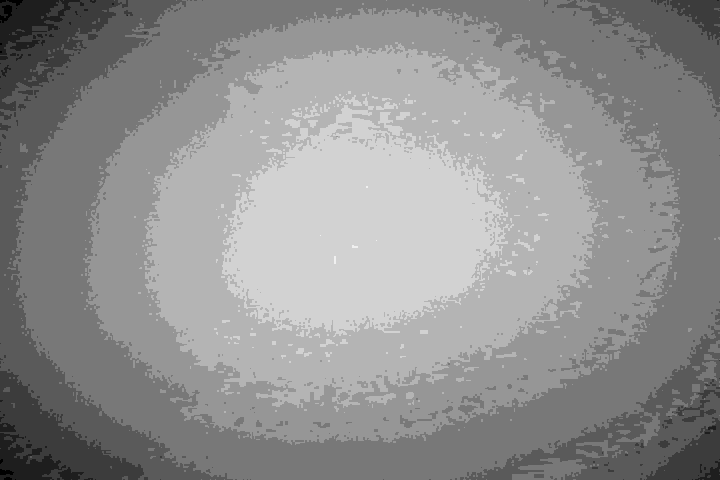
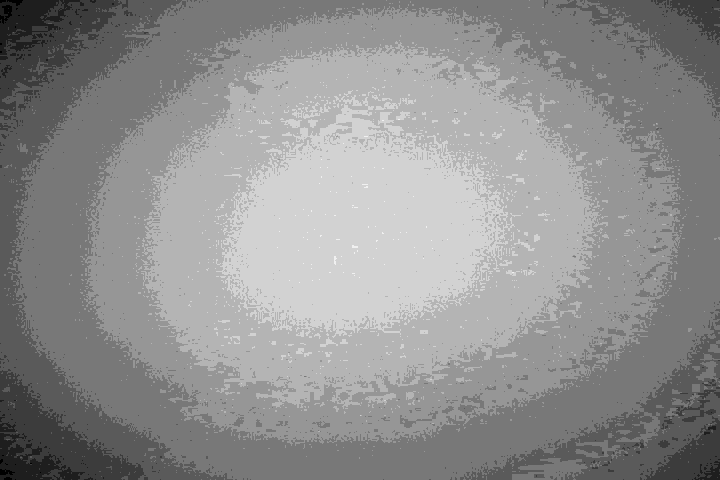
iroirosita

diff --git a/try.py b/try.py
@@ -41,43 +41,56 @@ def imgchange(img,perf):
 
 	img = (img - min) * 255 / (max - min)
 
+	# H,W = img.shape
+	# k=[[0,1,0],[1,0,1],[0,1,0]]
+	# for h in range(H-2):
+	# 	for w in range(W-2):
+	# 		img[h+1,w+1] = round( np.sum( k * img[ h : h+3 , w : w+3 ] ) / 4 ) 
+
 	img = img // perf
 
 	img = img *perf
 
 	return img
 
-def noisecut(img):
+def noisecut(img,perf):
 	#EasyNoiseCut
 	H,W = img.shape
 	k=[[0,1,0],[1,0,1],[0,1,0]]
 	for h in range(H-2):
 		for w in range(W-2):
-			
-			if img[h,w+1]*3 == np.sum([[0,1,0],[0,0,1],[0,1,0]]*img[h:h+3,w:w+3]):
-				img[h+1,w+1] = img[h,w+1]
-			elif img[h,w+1]*3 == np.sum([[0,1,0],[1,0,0],[0,1,0]]*img[h:h+3,w:w+3]):
-				img[h+1,w+1] = img[h,w+1]
-			elif img[h,w+1]*3 == np.sum([[0,1,0],[1,0,1],[0,0,0]]*img[h:h+3,w:w+3]):
-				img[h+1,w+1] = img[h,w+1]
-			elif img[h+1,w]*3 == np.sum([[0,0,0],[1,0,1],[0,1,0]]*img[h:h+3,w:w+3]):
-				img[h+1,w+1] = img[h+1,w]
+			img[h+1,w+1] = round( np.sum( k * img[ h : h+3 , w : w+3 ] ) / 4 * perf ) * perf
+
+			# if img[h,w+1]*3 == np.sum([[0,1,0],[0,0,1],[0,1,0]]*img[h:h+3,w:w+3]):
+			# 	img[h+1,w+1] = img[h,w+1]
+			# elif img[h,w+1]*3 == np.sum([[0,1,0],[1,0,0],[0,1,0]]*img[h:h+3,w:w+3]):
+			# 	img[h+1,w+1] = img[h,w+1]
+			# elif img[h,w+1]*3 == np.sum([[0,1,0],[1,0,1],[0,0,0]]*img[h:h+3,w:w+3]):
+			# 	img[h+1,w+1] = img[h,w+1]
+			# elif img[h+1,w]*3 == np.sum([[0,0,0],[1,0,1],[0,1,0]]*img[h:h+3,w:w+3]):
+			# 	img[h+1,w+1] = img[h+1,w]
 
 	return img
+	#enddef noisecut
 
 def SeekGravity(img,perf):
 	import math
 	H,W = img.shape
 	pernum = 255 // perf + 1
+	print(pernum)
 	SGline = np.empty((2,pernum))
 	# print(H,W)
 	img_make = np.zeros((H,W,3),dtype=int)
-	colorparetto = np.array([[244,0,0],[244,244,0],[244,0,244],[0,244,0],[0,244,244],[0,0,244],[122,0,0],[0,122,0],[0,0,122]])
+	colorparetto = np.array([[255,0,0],[0,255,0],[0,0,255],[255,255,0],[0,255,255],[255,0,255],[255,127,0],[0,255,127],[127,0,255]])
+	imag = np.zeros((H,W),dtype=int)
 	for i in range(pernum):
 
 		a = np.where(img==i*perf)
-
+		imag[a] = 255
+		cv2.imwrite('img/output/color-' + str(i) + '.png',imag)
+		imag = np.zeros((H,W),dtype=int)
 		len = a[0].shape
+		
 		SGh = np.sum( a[0] ) / len
 		SGw = np.sum( a[1] ) / len
 		img_make[a] = colorparetto[i]
@@ -85,7 +98,7 @@ def SeekGravity(img,perf):
 	# print(SGline)
 	SGline[0] -= H/2
 	SGline[1] -= W/2
-
+	print(SGline)
 	ans = np.empty(pernum)
 	for i in range(pernum):
 		ans[i] = math.sqrt(SGline[0,i] ** 2 + SGline[1,i] ** 2)
@@ -102,18 +115,19 @@ def main(num):
 
 	for i in [30]: #1,20,30,50
 		img_i = imgchange(img_v,i)
-		img_i = noisecut(img_i)
+		# img_i = noisecut(img_i,i)
 		cv2.imwrite('img/output/' + str(i) + '-' + num + '.png',img_i)
 		img_c,gplace = SeekGravity(img_i,i)
 		cv2.imwrite('img/output/' + str(i) + '-' + num + '-G.png',img_c)
 		print(num,end='')
 		print(gplace[-5:])
 	# print('end')
+#enddef main
 
 if __name__ == '__main__':
-	main('b-0')
-	main('b-1')
-	main('b-2')
-	main('b-3')
 	main('o-0')
-	main('o-1')
+	# main('b-1')
+	# main('b-2')
+	# main('b-3')
+	# main('o-0')
+	# main('o-1')

diff --git a/k.py b/k.py
@@ -1,0 +1,6 @@
+import numpy as np
+import cv2
+colorparetto = np.array([[[244,0,0],[244,244,0],[244,0,244]],[[0,244,0],[0,244,244],[0,0,244]],[[122,0,0],[0,122,0],[0,0,122]]])
+
+
+cv2.imwrite('a.png',colorparetto)
